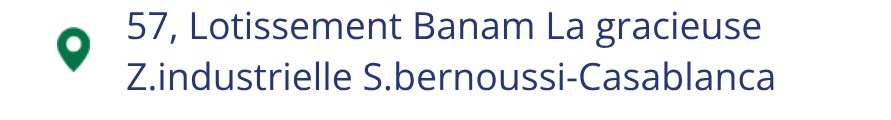
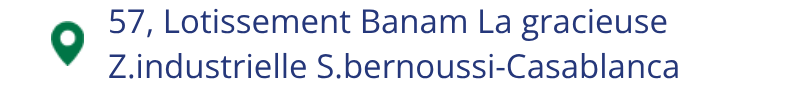
Signature: 550px width so it stays side by side in Gmail compose
Claude-Session: https://claude.ai/code/session_013gitCufBDqNKWPTfu1vo38

Changed region(s): [[0.0611, 0.0833, 0.8855, 0.7778]]

diff --git a/signature.html b/signature.html
@@ -5,16 +5,16 @@
 <body style="margin:0;padding:12px;background:#ffffff;">
 <!-- ===== DEBUT SIGNATURE ===== -->
 <table width="100%" cellpadding="0" cellspacing="0" border="0" bgcolor="#ffffff" style="width:100%;border-collapse:collapse;background-color:#ffffff;background-image:linear-gradient(#ffffff,#ffffff);"><tr><td bgcolor="#ffffff" style="padding:0;font-size:0;line-height:0;text-align:left;background-color:#ffffff;background-image:linear-gradient(#ffffff,#ffffff);">
-<div style="width:100%;max-width:660px;font-size:0;line-height:0;text-align:left;">
-<!--[if mso]><table cellpadding="0" cellspacing="0" border="0" width="660"><tr><td width="297" valign="top"><![endif]-->
-<div style="display:inline-block;vertical-align:top;width:100%;max-width:297px;"><img src="https://redaaitmaha.github.io/fadesolmail/panel-name.png" width="297" height="112" alt="Souad SIFATE - Service Commercial" style="display:block;border:0;width:100%;max-width:297px;height:auto;"><a href="mailto:souad.sifate@fadesol.com" target="_blank" style="text-decoration:none;display:block;"><img src="https://redaaitmaha.github.io/fadesolmail/panel-email.png" width="297" height="24" alt="souad.sifate@fadesol.com" style="display:block;border:0;width:100%;max-width:297px;height:auto;"></a><a href="tel:+212661246364" target="_blank" style="text-decoration:none;display:block;"><img src="https://redaaitmaha.github.io/fadesolmail/panel-tel1.png" width="297" height="20" alt="06 61 24 63 64" style="display:block;border:0;width:100%;max-width:297px;height:auto;"></a><a href="tel:+212522400490" target="_blank" style="text-decoration:none;display:block;"><img src="https://redaaitmaha.github.io/fadesolmail/panel-tel2.png" width="297" height="24" alt="05 22 40 04 90" style="display:block;border:0;width:100%;max-width:297px;height:auto;"></a><img src="https://redaaitmaha.github.io/fadesolmail/panel-addr.png" width="297" height="40" alt="57, Lotissement Banam La gracieuse, Z.industrielle S.bernoussi-Casablanca" style="display:block;border:0;width:100%;max-width:297px;height:auto;"><a href="https://www.fadesol.com" target="_blank" style="text-decoration:none;display:block;"><img src="https://redaaitmaha.github.io/fadesolmail/panel-web.png" width="297" height="58" alt="www.fadesol.com" style="display:block;border:0;width:100%;max-width:297px;height:auto;"></a></div>
-<!--[if mso]></td><td width="363" valign="top"><img src="https://redaaitmaha.github.io/fadesolmail/header-flat.jpg" width="351" alt="FADESOL - 20 ans depuis 2007" style="display:block;border:0;"></td></tr><tr><td colspan="2"><![endif]-->
-<!--[if !mso]><!--><div style="display:inline-block;vertical-align:top;width:100%;max-width:363px;"><table width="100%" cellpadding="0" cellspacing="0" border="0" bgcolor="#ffffff" style="width:100%;border-collapse:collapse;background-color:#ffffff;background-image:linear-gradient(#ffffff,#ffffff);"><tr><td bgcolor="#ffffff" style="padding:10px 12px 10px 0;background-color:#ffffff;background-image:linear-gradient(#ffffff,#ffffff);font-size:0;line-height:0;">
+<div style="width:100%;max-width:550px;font-size:0;line-height:0;text-align:left;">
+<!--[if mso]><table cellpadding="0" cellspacing="0" border="0" width="550"><tr><td width="262" valign="top"><![endif]-->
+<div style="display:inline-block;vertical-align:top;width:100%;max-width:262px;"><img src="https://redaaitmaha.github.io/fadesolmail/panel-name.png" width="297" height="112" alt="Souad SIFATE - Service Commercial" style="display:block;border:0;width:100%;max-width:262px;height:auto;"><a href="mailto:souad.sifate@fadesol.com" target="_blank" style="text-decoration:none;display:block;"><img src="https://redaaitmaha.github.io/fadesolmail/panel-email.png" width="297" height="24" alt="souad.sifate@fadesol.com" style="display:block;border:0;width:100%;max-width:262px;height:auto;"></a><a href="tel:+212661246364" target="_blank" style="text-decoration:none;display:block;"><img src="https://redaaitmaha.github.io/fadesolmail/panel-tel1.png" width="297" height="20" alt="06 61 24 63 64" style="display:block;border:0;width:100%;max-width:262px;height:auto;"></a><a href="tel:+212522400490" target="_blank" style="text-decoration:none;display:block;"><img src="https://redaaitmaha.github.io/fadesolmail/panel-tel2.png" width="297" height="24" alt="05 22 40 04 90" style="display:block;border:0;width:100%;max-width:262px;height:auto;"></a><img src="https://redaaitmaha.github.io/fadesolmail/panel-addr.png" width="297" height="40" alt="57, Lotissement Banam La gracieuse, Z.industrielle S.bernoussi-Casablanca" style="display:block;border:0;width:100%;max-width:262px;height:auto;"><a href="https://www.fadesol.com" target="_blank" style="text-decoration:none;display:block;"><img src="https://redaaitmaha.github.io/fadesolmail/panel-web.png" width="297" height="58" alt="www.fadesol.com" style="display:block;border:0;width:100%;max-width:262px;height:auto;"></a></div>
+<!--[if mso]></td><td width="288" valign="top"><img src="https://redaaitmaha.github.io/fadesolmail/header-flat.jpg" width="276" alt="FADESOL - 20 ans depuis 2007" style="display:block;border:0;"></td></tr><tr><td colspan="2"><![endif]-->
+<!--[if !mso]><!--><div style="display:inline-block;vertical-align:top;width:100%;max-width:288px;"><table width="100%" cellpadding="0" cellspacing="0" border="0" bgcolor="#ffffff" style="width:100%;border-collapse:collapse;background-color:#ffffff;background-image:linear-gradient(#ffffff,#ffffff);"><tr><td bgcolor="#ffffff" style="padding:10px 12px 10px 0;background-color:#ffffff;background-image:linear-gradient(#ffffff,#ffffff);font-size:0;line-height:0;">
 <table width="100%" cellpadding="0" cellspacing="0" border="0" background="https://redaaitmaha.github.io/fadesolmail/header-visual.jpg" style="width:100%;border-collapse:collapse;background-color:#ffffff;background-image:url(https://redaaitmaha.github.io/fadesolmail/header-visual.jpg);background-repeat:no-repeat;background-position:0 0;background-size:100% 100%;"><tr><td style="padding:0;font-size:0;line-height:0;">
 <table width="100%" cellpadding="0" cellspacing="0" border="0" background="https://redaaitmaha.github.io/fadesolmail/layer-20.png" style="width:100%;border-collapse:collapse;background-image:url(https://redaaitmaha.github.io/fadesolmail/layer-20.png);background-repeat:no-repeat;background-position:0 0;background-size:100% 100%;"><tr><td style="padding:0;font-size:0;line-height:0;">
-<a href="https://www.fadesol.com" target="_blank" style="text-decoration:none;"><img src="https://redaaitmaha.github.io/fadesolmail/spacer.png" width="351" height="250" alt="FADESOL - 20 ans depuis 2007" style="display:block;border:0;width:100%;height:auto;"></a>
+<a href="https://www.fadesol.com" target="_blank" style="text-decoration:none;"><img src="https://redaaitmaha.github.io/fadesolmail/spacer.png" width="276" height="250" alt="FADESOL - 20 ans depuis 2007" style="display:block;border:0;width:100%;height:auto;"></a>
 </td></tr></table></td></tr></table></td></tr></table></div><!--<![endif]-->
-<div style="width:100%;max-width:660px;"><a href="https://www.fadesol.com" target="_blank" style="text-decoration:none;display:block;"><img src="https://redaaitmaha.github.io/fadesolmail/footer-full.jpg" width="660" height="50" alt="FADESOL Power Solutions - Power for life" style="display:block;border:0;width:100%;max-width:660px;height:auto;"></a></div>
+<div style="width:100%;max-width:550px;"><a href="https://www.fadesol.com" target="_blank" style="text-decoration:none;display:block;"><img src="https://redaaitmaha.github.io/fadesolmail/footer-full.jpg" width="550" height="50" alt="FADESOL Power Solutions - Power for life" style="display:block;border:0;width:100%;max-width:550px;height:auto;"></a></div>
 <!--[if mso]></td></tr></table><![endif]-->
 </div>
 </td></tr></table>
